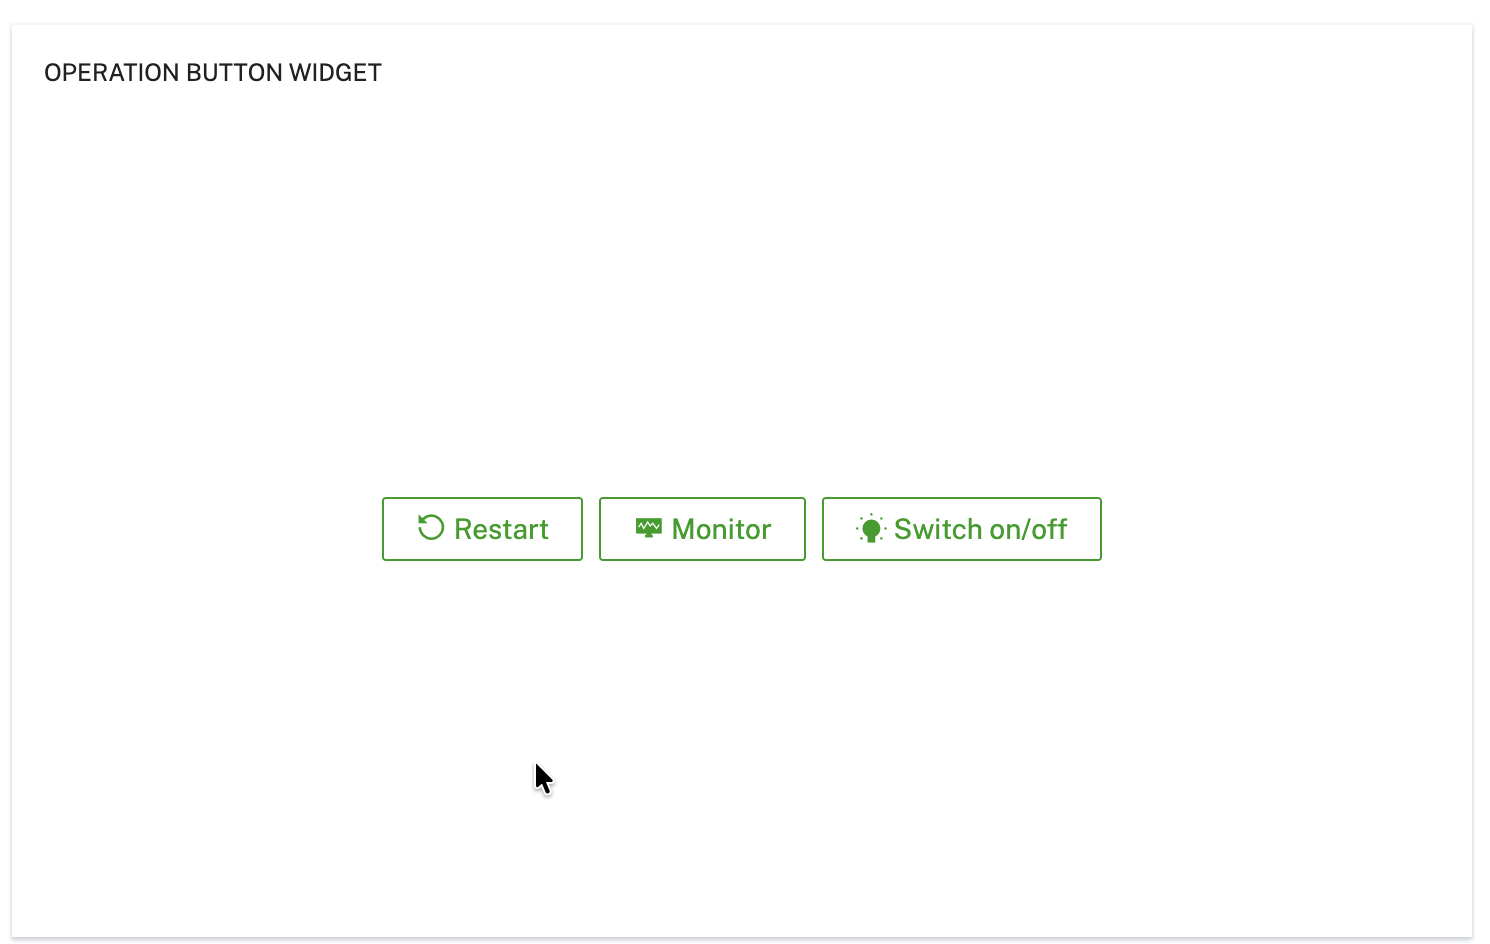
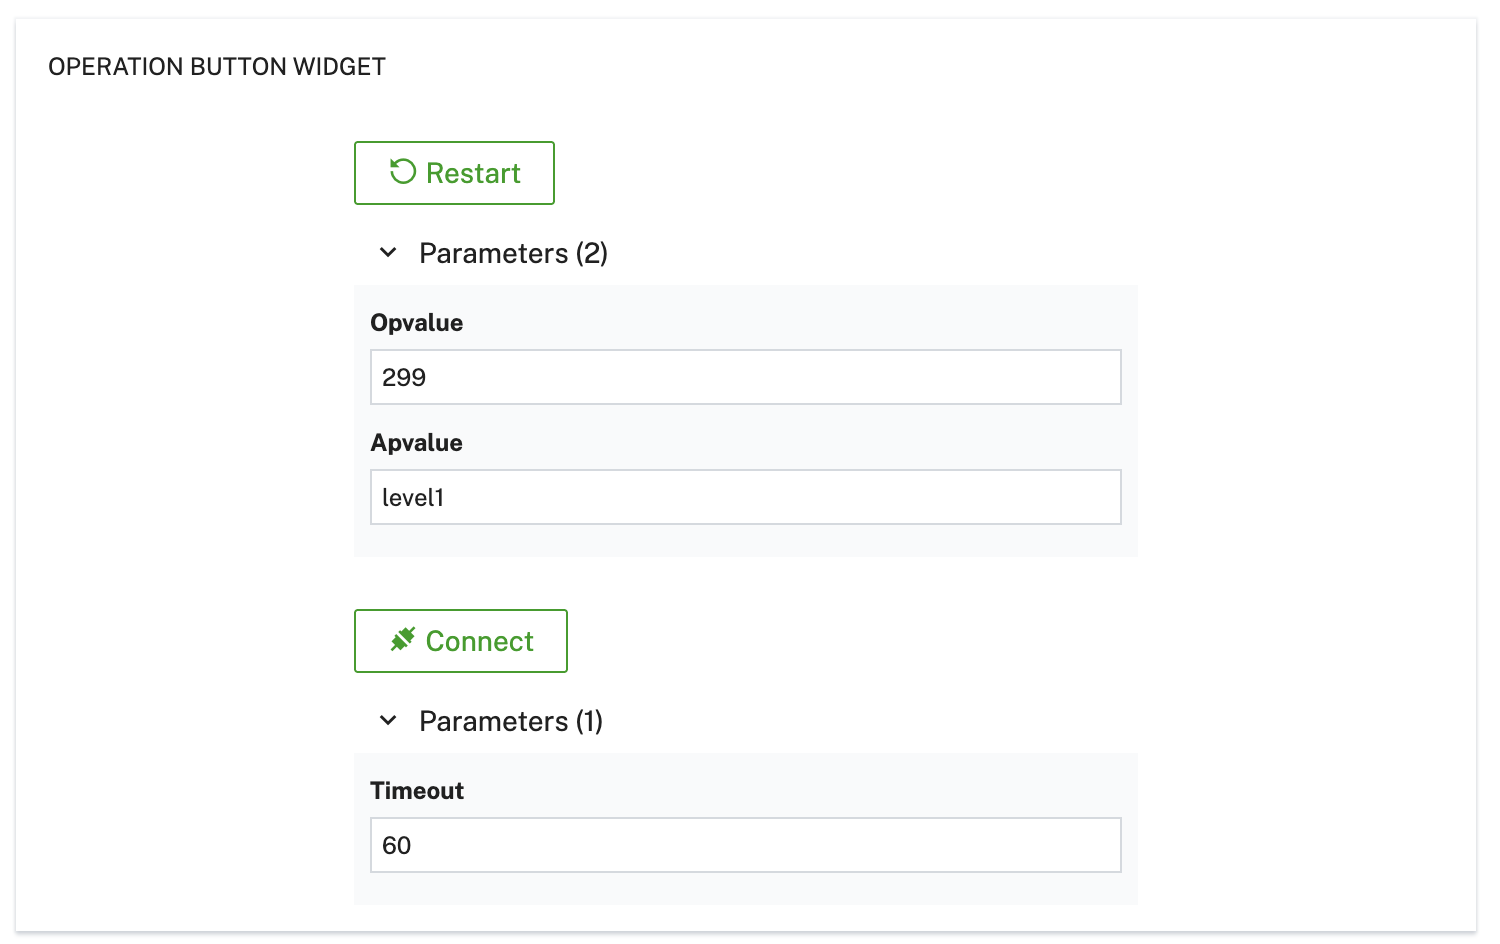
render parameters

diff --git a/src/app/operation-button-widget/widget/operation-button-widget.component.ts b/src/app/operation-button-widget/widget/operation-button-widget.component.ts
@@ -1,45 +1,238 @@
-import { Component, Input } from '@angular/core';
+import { Component, Input, OnInit, OnChanges } from '@angular/core';
 import { OperationService } from '@c8y/client';
-import { AlertService, CommonModule, FormsModule } from '@c8y/ngx-components';
+import { AlertService, CommonModule, CoreModule, FormsModule } from '@c8y/ngx-components';
+import { CollapseModule } from 'ngx-bootstrap/collapse';
 import {
   IOperationButtonConfig,
   IOperationButtonWidgetConfig,
+  IOperationVariable,
 } from '../models/IOperationButtonWidgetConfig';
 import { ButtonInstanceComponent } from '../button-instance/button-instance.component';
 
 @Component({
   selector: 'app-operation-button-widget',
   templateUrl: './operation-button-widget.component.html',
-    standalone: true,
-  imports: [CommonModule, FormsModule, ButtonInstanceComponent]
+  standalone: true,
+  imports: [CommonModule, FormsModule, CoreModule, CollapseModule, ButtonInstanceComponent]
 })
-export class OperationButtonWidgetComponent {
+export class OperationButtonWidgetComponent implements OnInit, OnChanges {
   @Input() config: IOperationButtonWidgetConfig = {};
-  buttons: IOperationButtonConfig[] = [];
+
+  // Track variable values and expanded state separately
+  variableValues: Map<number, { [key: string]: string }> = new Map();
+  expandedStates: Map<number, boolean> = new Map();
 
   constructor(
     private operationsService: OperationService,
     private alertService: AlertService
-  ) {}
+  ) { }
 
-  onButtonClick(button: IOperationButtonConfig): void {
+  ngOnInit(): void {
+    this.initializeVariables();
+  }
+
+  ngOnChanges(): void {
+    this.initializeVariables();
+  }
+
+  /**
+   * Parse operation value and extract referenced variables
+   * @param operationValue - The JSON string to parse
+   * @returns Array of variable names found
+   */
+  private parseReferencedVariables(operationValue: string): string[] {
+    try {
+      // Check if it's valid JSON first
+      JSON.parse(operationValue);
+
+      // Regular expression to match ${variableName} pattern
+      const variableRegex = /\$\{([^}]+)\}/g;
+      const variables: string[] = [];
+      let match: RegExpExecArray | null;
+
+      // Extract all matches from the original string
+      while ((match = variableRegex.exec(operationValue)) !== null) {
+        // Clean up the variable name - trim whitespace
+        const variableName = match[1].trim();
+        variables.push(variableName);
+      }
+
+      // Remove duplicates
+      const uniqueVariables = [...new Set(variables)];
+
+      return uniqueVariables;
+    } catch (error) {
+      // Invalid JSON, don't parse for variables
+      console.log('Invalid JSON, cannot parse for referenced variables');
+      return [];
+    }
+  }
+
+  /**
+   * Initialize variable values with defaults
+   * If operationVariables is not set in config, parse operationValue to find them
+   */
+  /**
+   * Initialize variable values with defaults
+   * If operationVariables is not set in config, parse operationValue to find them
+   */
+  private initializeVariables(): void {
+    if (this.config.buttons) {
+      this.config.buttons.forEach((button, index) => {
+        // Parse variables from operationValue if not already set
+        if (!button.operationVariables || button.operationVariables.length === 0) {
+          const foundVariables = this.parseReferencedVariables(button.operationValue);
+          if (foundVariables.length > 0) {
+            // Create operationVariables array from parsed variables
+            button.operationVariables = foundVariables.map(varName => ({
+              varName: varName,
+              label: varName,
+              default: ''
+            }));
+          }
+        }
+
+        // Initialize variable values
+        if (!this.variableValues.has(index)) {
+          const values: { [key: string]: string } = {};
+          if (button.operationVariables) {
+            button.operationVariables.forEach(variable => {
+              values[variable.varName] = variable.default || '';
+            });
+          }
+          this.variableValues.set(index, values);
+          this.expandedStates.set(index, false);
+        }
+      });
+    }
+  }
+
+
+  /**
+   * Check if button has variables that need input
+   */
+  hasVariables(button: IOperationButtonConfig): boolean {
+    return !!(button.operationVariables && button.operationVariables.length > 0);
+  }
+
+  /**
+   * Toggle the collapsed state of variables section
+   */
+  toggleVariables(index: number): void {
+    const currentState = this.expandedStates.get(index) || false;
+    this.expandedStates.set(index, !currentState);
+  }
+
+  /**
+   * Check if variables section is expanded
+   */
+  isExpanded(index: number): boolean {
+    return this.expandedStates.get(index) || false;
+  }
+
+  /**
+   * Get variable values for a button
+   */
+  getVariableValues(index: number): { [key: string]: string } {
+    return this.variableValues.get(index) || {};
+  }
+
+  /**
+   * Replace variables in operation value with actual values
+   */
+  private replaceVariables(operationValue: string, variableValues: { [key: string]: string }): string {
+    let result = operationValue;
+
+    // Replace each ${variableName} with its value
+    Object.keys(variableValues).forEach(varName => {
+      const regex = new RegExp(`\\$\\{${varName}\\}`, 'g');
+      const value = variableValues[varName];
+      result = result.replace(regex, value);
+    });
+
+    console.log('Original operation value:', operationValue);
+    console.log('Variable values:', variableValues);
+    console.log('After replacement:', result);
+
+    return result;
+  }
+
+  /**
+   * Validate that all required variables have values
+   */
+  private validateVariables(button: IOperationButtonConfig, buttonIndex: number): boolean {
+    if (!button.operationVariables || button.operationVariables.length === 0) {
+      return true;
+    }
+
+    const values = this.variableValues.get(buttonIndex) || {};
+    const missingVariables = button.operationVariables.filter(variable => {
+      const value = values[variable.varName];
+      return !value || value.trim() === '';
+    });
+
+    if (missingVariables.length > 0) {
+      const varNames = missingVariables.map(v => v.label).join(', ');
+      this.alertService.warning(
+        `Please provide values for the following variables: ${varNames}`
+      );
+      return false;
+    }
+
+    return true;
+  }
+
+  onButtonClick(button: IOperationButtonConfig, buttonIndex: number): void {
+    console.log('Button clicked:', button.label, 'index:', buttonIndex);
+
+    // Validate variables before proceeding
+    if (!this.validateVariables(button, buttonIndex)) {
+      return;
+    }
+
     if (this.config.device && this.config.device.id) {
-      this.operationsService
-        .create({
+      try {
+        // Replace variables in operation value
+        let operationValue = button.operationValue;
+        const varValues = this.variableValues.get(buttonIndex);
+
+        if (varValues && Object.keys(varValues).length > 0) {
+          operationValue = this.replaceVariables(operationValue, varValues);
+        }
+
+        // Parse the operation value
+        const parsedOperationValue = JSON.parse(operationValue);
+
+        console.log('Creating operation:', {
           deviceId: this.config.device.id,
           description: button.description || button.label,
-          [button.operationFragment]: JSON.parse(button.operationValue),
-        })
-        .then(() => {
-          this.alertService.success(
-            `Operation '${button.label}' successfully created.`
-          );
-        })
-        .catch(() => {
-          this.alertService.danger(
-            `Failed to create '${button.label}' operation.`
-          );
+          [button.operationFragment]: parsedOperationValue,
         });
+
+        // Create the operation
+        this.operationsService
+          .create({
+            deviceId: this.config.device.id,
+            description: button.description || button.label,
+            [button.operationFragment]: parsedOperationValue,
+          })
+          .then(() => {
+            this.alertService.success(
+              `Operation '${button.label}' successfully created.`
+            );
+          })
+          .catch((error) => {
+            console.error('Operation creation failed:', error);
+            this.alertService.danger(
+              `Failed to create '${button.label}' operation.`
+            );
+          });
+      } catch (error) {
+        console.error('Failed to parse operation value:', error);
+        this.alertService.danger(
+          `Invalid operation value for '${button.label}'. Please check the configuration.`
+        );
+      }
     } else {
       this.alertService.danger(
         `No target device configured for this widget. Unable to create operation.`

diff --git a/src/app/operation-button-widget/widget/operation-button-widget.component.html b/src/app/operation-button-widget/widget/operation-button-widget.component.html
@@ -1,7 +1,33 @@
 <div class="d-flex flex-wrap j-c-center a-i-center fit-h fit-v">
-  <app-button-instance
-    class="p-4"
-    [config]="item"
-    *ngFor="let item of config?.buttons"
-    (clickedOperation)="onButtonClick(item)"></app-button-instance>
+  <ng-container *ngFor="let item of config?.buttons; let i = index">
+    <div class="p-4" style="width: 100%; max-width: 400px;">
+      <!-- Button Instance -->
+      <div class="text-center_ m-b-8">
+        <app-button-instance [config]="item" (clickedOperation)="onButtonClick(item, i)">
+        </app-button-instance>
+      </div>
+
+      <!-- Variables Section (Collapsible) -->
+      <div *ngIf="hasVariables(item)">
+        <button type="button" class="btn text-left" [attr.aria-expanded]="isExpanded(i)"
+          (click)="toggleVariables(i)"
+          style="width: 100%; white-space: nowrap; display: flex; align-items: center; padding: 4px 8px;">
+          <i [c8yIcon]="isExpanded(i) ? 'chevron-down' : 'chevron-right'" style="margin-right: 8px;"></i>
+          <span>Parameters ({{ item.operationVariables?.length }})</span>
+        </button>
+
+        <div class="collapse bg-level-1" [collapse]="!isExpanded(i)" [isAnimated]="true">
+          <div class="p-8">
+            <div *ngFor="let variable of item.operationVariables" class="m-b-8">
+              <label class="text-truncate">
+                <small><strong>{{ variable.label }}</strong></small>
+              </label>
+              <input class="form-control input-sm" type="text" [(ngModel)]="getVariableValues(i)[variable.varName]"
+                [placeholder]="variable.default || 'Enter value'" />
+            </div>
+          </div>
+        </div>
+      </div>
+    </div>
+  </ng-container>
 </div>

diff --git a/src/app/operation-button-widget/widget/operation-button-widget.component.css b/src/app/operation-button-widget/widget/operation-button-widget.component.css
@@ -1,0 +1,28 @@
+.collapse-btn {
+  display: flex;
+  align-items: center;
+  gap: 8px;
+  width: 100%;
+  padding: 8px 12px;
+  background: transparent;
+  border: 1px solid #ddd;
+  border-radius: 4px;
+  cursor: pointer;
+  font-size: 14px;
+  text-align: left;
+  white-space: nowrap;
+  transition: background-color 0.2s;
+}
+
+.collapse-btn:hover {
+  background-color: #f5f5f5;
+}
+
+.collapse-btn i {
+  flex-shrink: 0;
+}
+
+.collapse-btn span {
+  flex-grow: 1;
+  white-space: nowrap;
+}
